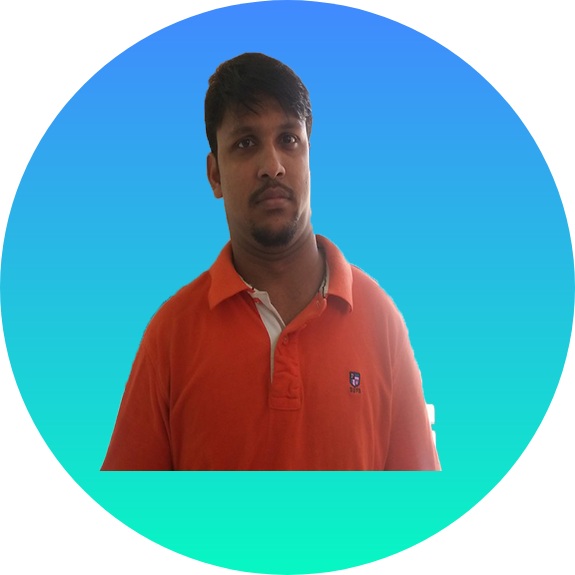
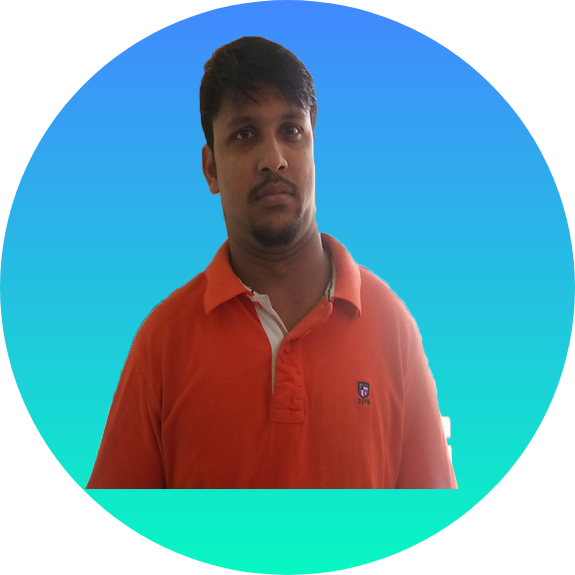
website complete

Changed region(s): [[0.1478, 0.0591, 0.7983, 0.8574]]

diff --git a/index.html b/index.html
@@ -8,15 +8,52 @@
     <link rel="stylesheet" href="style.css">
 </head>
 <body>
-    <section>
+    <section class="top-banar">
        <div class="half-width">
         <h1>Welcome To</h1>
-        <h1><span class="name-highlight">Juwel Hossain </span>Devloper</h1>
+        <h1><span class="orange-highlight">Juwel Hossain </span>Devloper</h1>
         <h3>World-Class profession web dev</h3>
         <p>I am profession web devloper.I am make your website easy used to Html and Css.If you need to responsive website and discuss the website make you can below the link </p>
-    
+        <a class="link-button" href="https://coder-weber.github.io/web-portfolio/index.html" target="_blank" >Hire Me</a>
        </div> 
        <div class="half-width"><img  src="images/web_pic.png" alt=""></div>    
     </section>
+    <section class="dream-area">
+        <div class="half-width">
+            <img src="images/juwel-dream.png" alt="">
+        </div>
+        <div class="half-width">
+            <h2>Big Dream</h2>
+        <h3 class="orange-highlight">Become world no 1 developer</h3>
+        <p>I am profession web devloper.I am make your website easy used to Html and Css.If you need to responsive website and discuss the website make you can below the link </p>
+        <a class="link-button" href="https://coder-weber.github.io/web-portfolio/index.html" target="_blank" >Download Resume</a>
+        </div>
+    </section>
+    <section class="experiance-area">
+        <h2>Experience</h2>
+        <div id="full-stack" class="half-width single-section">
+            <h2>Full stack web dev</h2>
+            <h3 class="orange-highlight">2021 -present | Pro level Web Dev</h3>
+            <p>I am the master of HTML,CSS and Javascript.
+I know everything needed to make a website 
+function,efficient.I didn't stop with the web.I went
+beyond with most popular Javascript framework
+called Vue JS .I even know the development,server
+and security.I will give you 100% web solution
+            </p>
+        </div>
+        <div id="baby-section" class="half-width single-section">
+            <h2>Baby web developer</h2>
+            <h3 class="orange-highlight">2020-2021 |Programming Hero Learning</h3>
+            <p>They didn't offer me a job. But i made myself as a
+remove web developer .i made their website and showed
+it to them.They liked it. And uploaded the content.
+It was fun working at programming  Hero.
+            </p>
+        </div>
+    </section>
+<footer>
+    <p>@ Juwel 2021 All rights  reserve</p>
+</footer>
 </body>
 </html>

diff --git a/style.css b/style.css
@@ -1,16 +1,74 @@
 body {
+    margin: 0;
     font-family: 'Tangerine', serif;
     font-size: 25px;
   }
-  .name-highlight{
+.h2{
+    font-size: 500px;
+}
+.p{
+    color:gray;
+}
+  .orange-highlight{
       color: orange;
   }
 .half-width{
     width: 40%;
-    float: left;
+    float: left;  
     margin-left: 5%;
     padding-left: 4%;
 }
 .half-width img{
-    width: 80%;
+    width: 72%;
+}
+.top-banar{
+    background-image: url("images/top-banner.png");
+    background-repeat: no-repeat;
+}
+section{
+    height: 500px;
+    padding: 10px 20px;
+}
+
+.link-button{
+    text-decoration: none;
+    background-image: linear-gradient(45deg, rgb(36, 180, 132),tomato);
+    padding: 10px 20px;
+    border-radius: 5px;
+    color: white;
+    font-weight: 700;
+}
+.dream-area{
+ background-image: url("images/dream-bg.png");
+background-repeat: no-repeat;
+background-position: right;
+}
+
+.experiance-area{
+    background-image: url("images/exp-bg.png");
+    background-repeat: no-repeat;
+    background-position: left;
+}
+
+.single-section{
+    box-shadow: 10px 20px 40px gray;
+    border-radius: 20px;
+    height: 60%;
+    background-color: white;
+}
+footer p{
+    text-align: center;
+    font-size: 12px;
+}
+
+#full-stack{
+    border-left: 7px solid;
+    border-image: linear-gradient(180deg, lightSalmon, tomato);
+    border-image-slice: 1;
+}
+#baby-section
+{
+    border-left: 5px solid;
+    border-image: linear-gradient(180deg, rgb(151, 122, 255), rgb(105, 71, 255));
+    border-image-slice: 1;
 }
